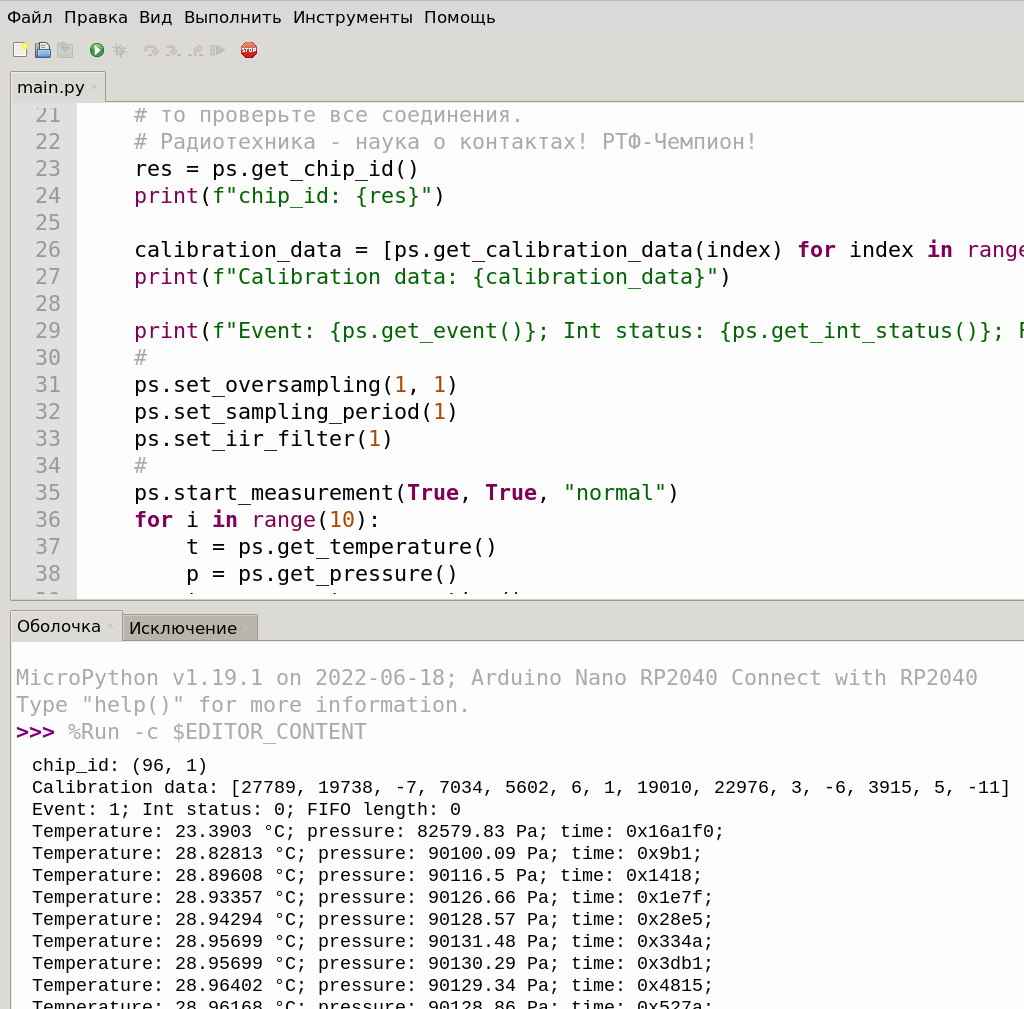
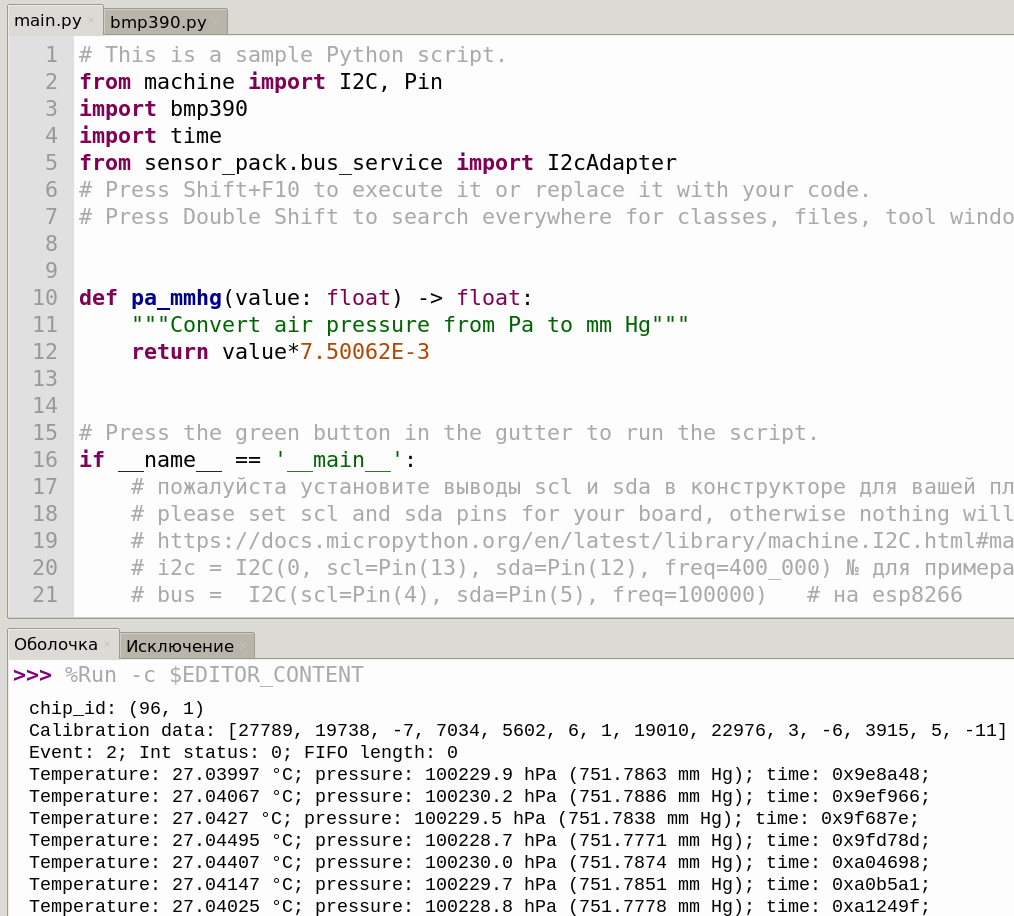
after test

diff --git a/bmp390.py b/bmp390.py
@@ -35,8 +35,7 @@ def _calibration_regs_addr() -> iter:
 class Bmp390(BaseSensor, Iterator):
     """Class for work with Bosh BMP180 pressure sensor"""
 
-    def __init__(self, adapter: bus_service.BusAdapter, address=0xEE >> 1,
-                 baseline_pressure=101325.0, oversample_temperature=0b11, iir_filter=0):
+    def __init__(self, adapter: bus_service.BusAdapter, address=0xEE >> 1, oversample_temperature=0b11, iir_filter=0):
         """i2c - объект класса I2C; baseline_pressure - давление на уровне моря в Pa в твоей(!) местности;;
         oversample_settings (0..5) - точность измерения 0-грубо но быстро, 5-медленно, но точно;
         address - адрес датчика (0xEF (read) and 0xEE (write) from datasheet)
@@ -53,7 +52,6 @@ class Bmp390(BaseSensor, Iterator):
         self.adapter = adapter
         self.IIR = _check_value(iir_filter, range(0, 8),
                                 f"Invalid iir_filter value: {iir_filter}")
-        self.base_pressure = baseline_pressure
         self.mode = 0
         self.enable_pressure = False
         # массив, хранящий калибровочные коэффициенты (xx штук)
@@ -109,6 +107,7 @@ class Bmp390(BaseSensor, Iterator):
         if len(self.cfa):
             raise ValueError(f"calibration data array already filled!")
         for v_addr, v_size, v_type in _calibration_regs_addr():
+            # print(v_addr, v_size, v_type)
             reg_val = self._read_register(v_addr, v_size)
             rv = ustruct.unpack(f"<{v_type}", reg_val)[0]
             # check
@@ -204,7 +203,7 @@ class Bmp390(BaseSensor, Iterator):
 
     def get_int_status(self) -> int:
         """Bit 0 fwm_int FIFO Watermark Interrupt
-        Bit 1 ffull_int FIFO Full Interrupt
+        Bit 1 full_int FIFO Full Interrupt
         Bit 3 drdy data ready interrupt"""
         int_stat = self._read_register(0x11, 1)
         return int(int_stat[0]) & 0b111
@@ -264,7 +263,7 @@ class Bmp390(BaseSensor, Iterator):
 
     def set_sampling_period(self, period: int):
         p = _check_value(period, range(0, 18),
-                         f"Invalid value pressure_oversampling: {period}")
+                         f"Invalid value output data rates: {period}")
         self._write_register(0x1D, p, 1)
 
     def set_iir_filter(self, value):

diff --git a/main.py b/main.py
@@ -1,10 +1,15 @@
 # This is a sample Python script.
-from machine import I2C
+from machine import I2C, Pin
 import bmp390
 import time
 from sensor_pack.bus_service import I2cAdapter
 # Press Shift+F10 to execute it or replace it with your code.
 # Press Double Shift to search everywhere for classes, files, tool windows, actions, and settings.
+
+
+def pa_mmhg(value: float) -> float:
+    """Convert air pressure from Pa to mm Hg"""
+    return value*7.50062E-3
 
 
 # Press the green button in the gutter to run the script.
@@ -14,11 +19,10 @@ if __name__ == '__main__':
     # https://docs.micropython.org/en/latest/library/machine.I2C.html#machine-i2c
     # i2c = I2C(0, scl=Pin(13), sda=Pin(12), freq=400_000) № для примера
     # bus =  I2C(scl=Pin(4), sda=Pin(5), freq=100000)   # на esp8266    !
-    i2c = I2C(0, freq=400_000)  # on Arduino Nano RP2040 Connect tested
+    i2c = I2C(id=0, scl=Pin(13), sda=Pin(12), freq=400000)  # on Arduino Nano RP2040 Connect tested
     adaptor = I2cAdapter(i2c)
     # ps - pressure sensor
     ps = bmp390.Bmp390(adaptor)
-
     # если у вас посыпались исключения, чего у меня на макетной плате с али и проводами МГТВ не наблюдается,
     # то проверьте все соединения.
     # Радиотехника - наука о контактах! РТФ-Чемпион!
@@ -30,9 +34,9 @@ if __name__ == '__main__':
 
     print(f"Event: {ps.get_event()}; Int status: {ps.get_int_status()}; FIFO length: {ps.get_fifo_length()}")
     #
-    ps.set_oversampling(1, 1)
-    ps.set_sampling_period(1)
-    ps.set_iir_filter(1)
+    ps.set_oversampling(2, 3)
+    ps.set_sampling_period(5)
+    ps.set_iir_filter(2)
     #
     ps.start_measurement(True, True, 2)
     for i in range(10):
@@ -42,4 +46,4 @@ if __name__ == '__main__':
         p = ps.get_pressure()
         tme = ps.get_sensor_time()
         #
-        print(f"Temperature: {t} \xB0C; pressure: {p} Pa; time: {hex(tme)}; ")
+        print(f"Temperature: {t} \xB0C; pressure: {p} hPa ({pa_mmhg(p)} mm Hg); time: {hex(tme)}; ")
